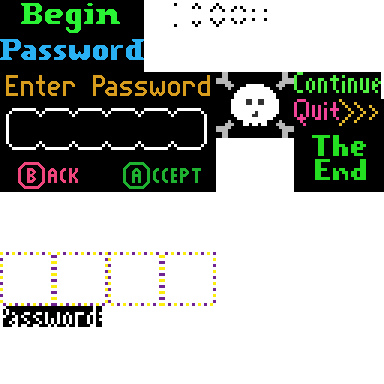
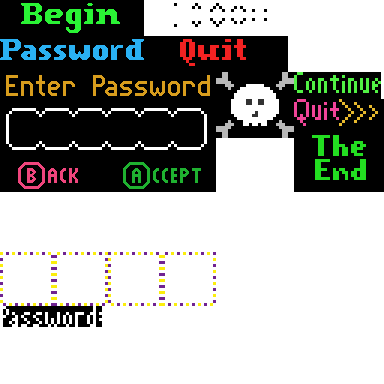
quit, if the platform allows it

Changed region(s): [[0.375, 0.0938, 0.75, 0.1875]]

diff --git a/src/game/ui/fmn_title.c b/src/game/ui/fmn_title.c
@@ -4,7 +4,12 @@
 
 #define FMN_TITLE_SELECTION_NEW 0
 #define FMN_TITLE_SELECTION_PASSWORD 1
-#define FMN_TITLE_SELECTION_COUNT 2
+#if FMN_QUITTABLE
+  #define FMN_TITLE_SELECTION_QUIT 2
+  #define FMN_TITLE_SELECTION_COUNT 3
+#else
+  #define FMN_TITLE_SELECTION_COUNT 2
+#endif
 
 /* Globals.
  */
@@ -55,6 +60,11 @@ void fmn_title_input(uint16_t input,uint16_t prev) {
     case FMN_TITLE_SELECTION_PASSWORD: {
         fmn_set_uimode(FMN_UIMODE_PASSWORD);
       } break;
+    #if FMN_QUITTABLE
+      case FMN_TITLE_SELECTION_QUIT: {
+          fmn_platform_quit();
+        } break;
+    #endif
   }
 }
 
@@ -78,6 +88,11 @@ void fmn_title_update() {
 void fmn_title_render(struct fmn_image *fb) {
   if (!fbdirty) return;
   fmn_blit(fb,FMN_NSCOORD( 0, 0),&titlesplash,FMN_NSCOORD(0,0),fb->w,fb->h,0);
+  #if FMN_QUITTABLE
+    if (selection==FMN_TITLE_SELECTION_QUIT) {
+      fmn_blit(fb,FMN_NSCOORD(23,18),&uibits,FMN_NSCOORD(48,12),FMN_NSCOORD(48,12),0);
+    } else
+  #endif
   fmn_blit(fb,FMN_NSCOORD(23,18),&uibits,FMN_NSCOORD(0,selection*12),FMN_NSCOORD(48,12),0);
   fmn_blit(fb,FMN_NSCOORD(44,13),&uibits,FMN_NSCOORD(48+arrowframe*7,0),FMN_NSCOORD(7,5),0);
   fmn_blit(fb,FMN_NSCOORD(44,30),&uibits,FMN_NSCOORD(48+arrowframe*7,5),FMN_NSCOORD(7,5),0);

diff --git a/src/game/ui/fmn_gameover.c b/src/game/ui/fmn_gameover.c
@@ -50,7 +50,11 @@ void fmn_gameover_input(uint16_t input,uint16_t pvinput) {
             else fmn_game_reset_with_state(fmn_game_get_state());
             fmn_set_uimode(FMN_UIMODE_PLAY);
           } break;
-        case 2: fmn_set_uimode(FMN_UIMODE_TITLE); break;
+        #if FMN_QUITTABLE
+          case 2: fmn_platform_quit(); break;
+        #else
+          case 2: fmn_set_uimode(FMN_UIMODE_TITLE); break;
+        #endif
       }
     }
     #undef _

diff --git a/src/opt/synth/synth_fm.c b/src/opt/synth/synth_fm.c
@@ -21,7 +21,13 @@
  */
  
 void synth_fm_update(int16_t *v,int c,struct synth_voice *voice) {
+
+  //XXX just fooling around
+  //chan->mod++;//obviously not ok; (chan) is shared across voices
+  //uint32_t range=(chan->mod<0x80)?(chan->mod<<10):((0xff-chan->mod)<<10);
+  //...ha ha ha it sounds so cool
   uint32_t range=chan->mod<<10;
+  
   uint32_t moddp=voice->rate;
   if (modrate<0x10) moddp>>=(0x10-modrate);
   else moddp<<=(modrate-0x10);

diff --git a/src/game/fullmoon.h b/src/game/fullmoon.h
@@ -39,6 +39,10 @@ uint16_t fmn_platform_read_input();
  */
 void fmn_platform_init_framebuffer(struct fmn_image *fb);
 
+#if FMN_QUITTABLE
+  void fmn_platform_quit();
+#endif
+
 /***************************************************************
  * Shared symbols and services.
  */

diff --git a/src/opt/genioc/fmn_genioc_platform.c b/src/opt/genioc/fmn_genioc_platform.c
@@ -30,3 +30,10 @@ void fmn_platform_send_framebuffer(const void *fb) {
 uint16_t fmn_platform_read_input() {
   return fmn_genioc.input;
 }
+
+/* Quit.
+ */
+ 
+void fmn_platform_quit() {
+  fmn_genioc.terminate=1;
+}

diff --git a/src/opt/macos/fmn_macioc_global.m b/src/opt/macos/fmn_macioc_global.m
@@ -189,6 +189,10 @@ uint16_t fmn_platform_read_input() {
   ;
 }
 
+void fmn_platform_quit() {
+  fmn_macioc.terminate=1;
+}
+
 /* Final performance report.
  */
  
